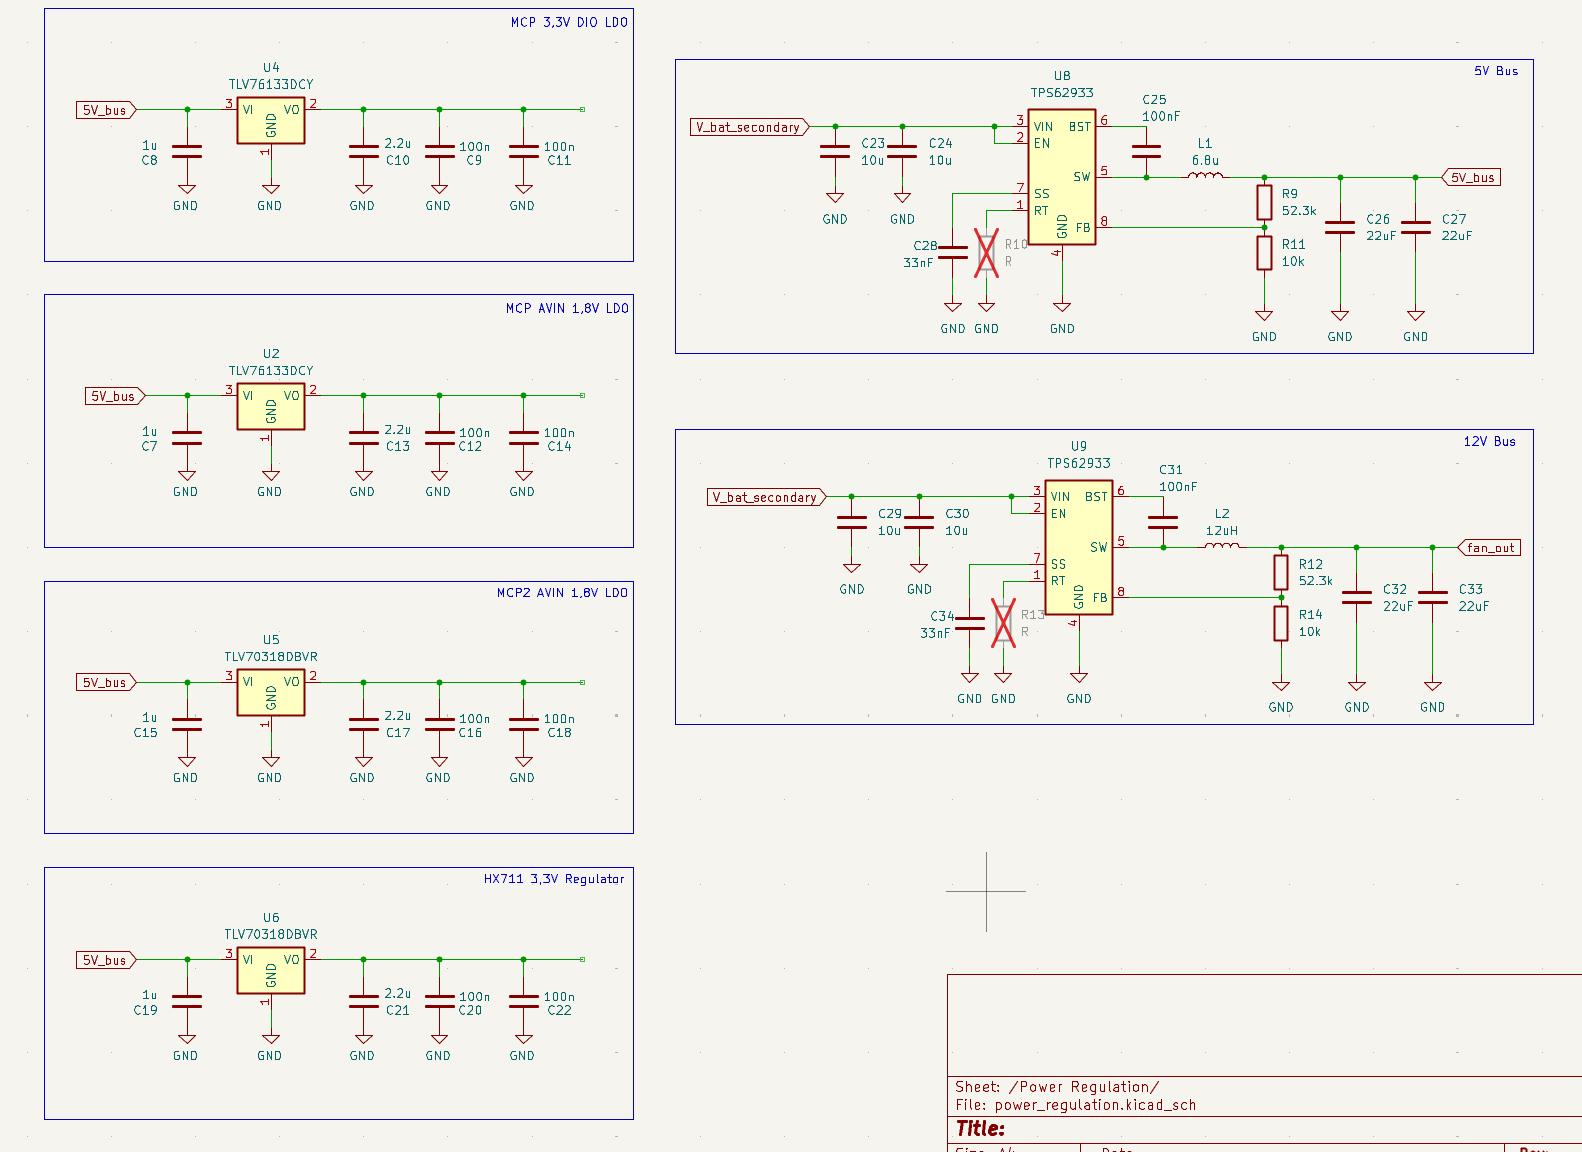
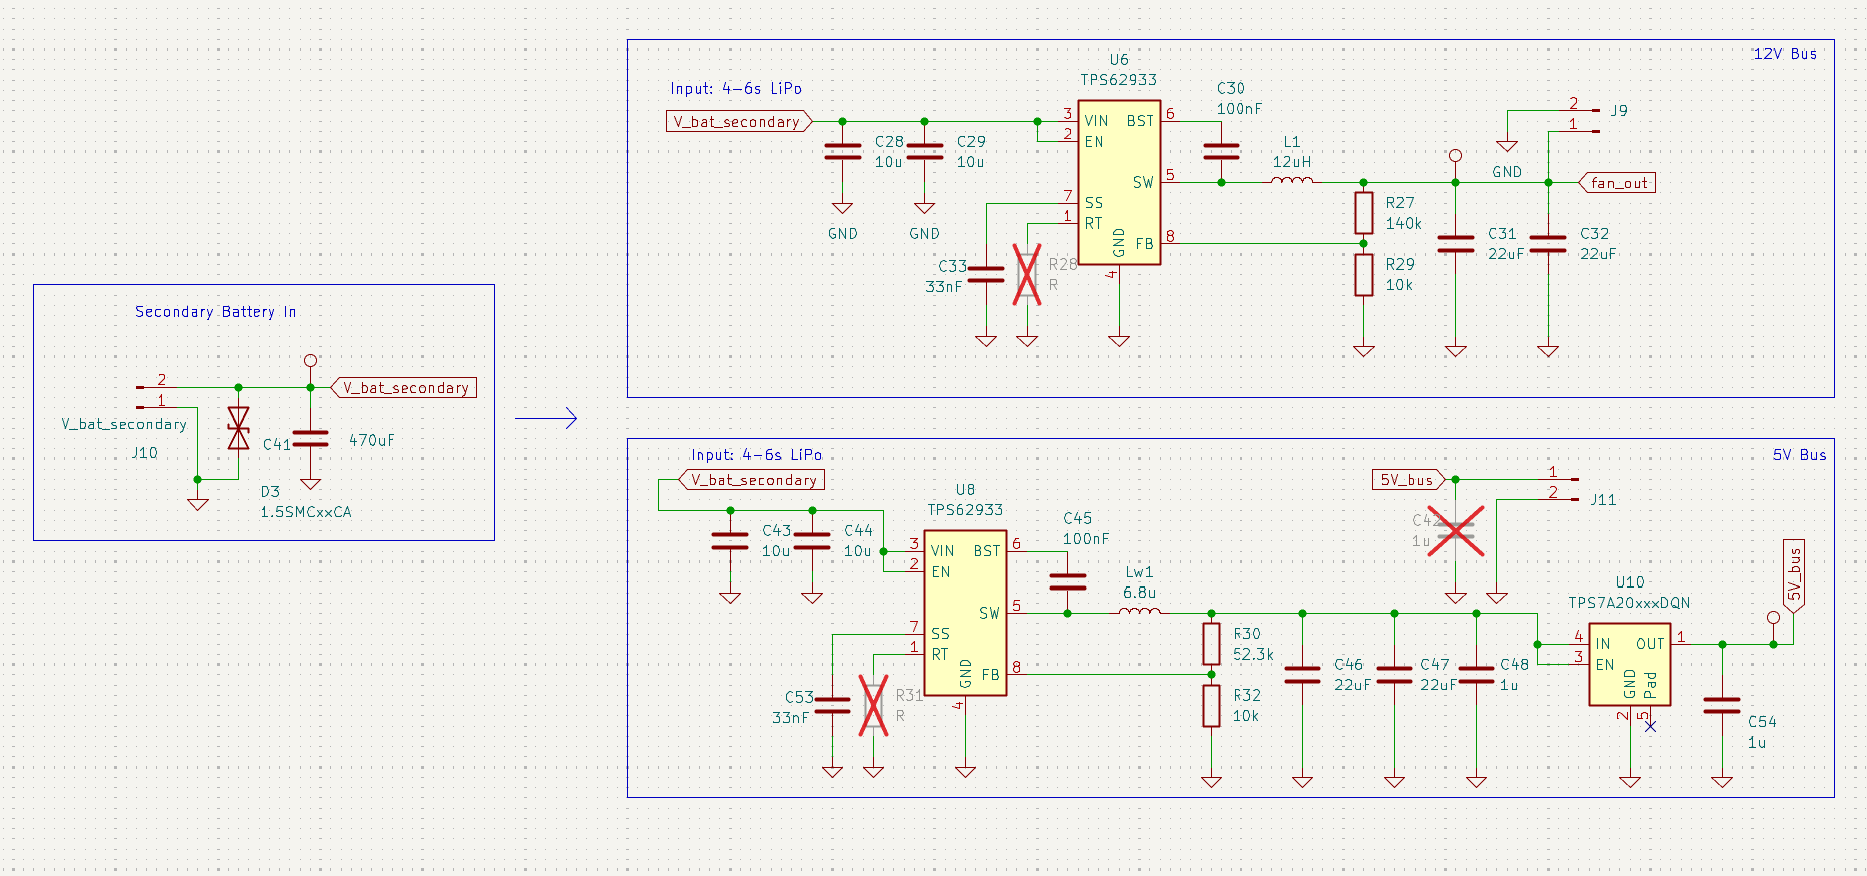
updated the test bench project

diff --git a/docs/projects/testbench.md b/docs/projects/testbench.md
@@ -2,6 +2,8 @@
 
 This is a personal project that is a work in progress. The idea for this project arose from the need to optimize motor-propeller combinations for the industrial drone project.
 
+This project serves as a base for a drone PMU (power management unit) project I am planning on doing in the future. 
+
 ### General description of the device
 
 The aim of the project is to design and implement a test bench suitable for drone motors, capable of measuring the current, voltage and power of the drone motor, the rotational speed of the motor or blades, and the thrust generated by the motor. The idea is that different combinations of motors, propellers, and motor controllers can be tested to achieve the best efficiency.
@@ -11,111 +13,174 @@ The device measures the motor's current and voltage which can be used to calcula
 ### Planned features
 
 - Compatibility for various types of motors and motor controllers.
-- Web UI for graphing measurement results in real time
-- Battery operable from typical drone batteries (input voltage range up to 30 V) 
+- Python based plotting / UI (and possibly a Web UI hosted on the ESP32) for graphing measurement results in real time
+- Battery operable from typical drone batteries (input voltage range up to 30 V, 4-6s) 
 - Automated test sequences
   
 ### Target specifications
 
 Current measurements:
 
-- Max Current: 60 A
+- Max Current: 60 A (peak), 30 A sustained for several minutes
 - Accuracy:   100 mA
-- Resolution: 10 mA.
+- Resolution: 20 mA or less.
 - Bandwidth: 10 kHz.
 
 Voltage measurements:
 
 - Max input Voltage: 30 V
 - Accuracy: 100 mV
-- Resolution: 10 mV.
+- Resolution: 20 mV.
 - Bandwidth: 10 kHz.
 
 Thrust measurements:
 
 - Range: 0-5 kg
-- Accuracy: 20g
-- Resolution: 10g
+- Accuracy: 100g
+- Resolution: 20g
 
 Propeller measurements:
 
 - Rotational speed: 20 000 rpm
 - Accuracy: 100 rpm
 
-### Current Progress / Initial Designs **(Very much Subject to Change)**
+These requirements were arbitarily selected as a basis for the project but the fullfilment of these goals is not the most important aspect of this project.
 
-The initial plan for the system has been created and is shown in the block diagram below. The exact components may still change. In particular, the ADCs may still be changed. The goal is to implement the different parts of the system step by step and eventually integrate everything onto a single circuit board.
+## Current Progress
 
-The project is intended to be as modular as possible so that it can be developed in parts. For example, a cost effective and readily available generic load cell + HX711 ADC combination was been chosen for thrust measurement. This will be replaced later with a higher-quality solution later on. 
+Most of the system has been implemented and the PCB layout is almost finished. Only minor tweaks to the PCB layout and component selectio has to be done before ordering of the PCB. The general level system block diagram can be found below.
+
+<div align="center">
+  <img src="../../images/testbench/system_blockdiagram_v2.png" width="700" />
+  <p><em> System block diagram.</em></p>
+</div>
+
+### General description and Main Components of the System 
+
+- Microprocessor: The ESP32 was chosen as the microprocessor because it has Wifi capability and can stream the measurement results via a web server UI. 
+- Current sensor: Allegro Microsystems ACS37030-065B3. Isolated, Ratiometric, Bi-directional.
+- Voltage measurement: Resistor ladder + ACPL-C87A Isolated op-amp.
+- Power Regulation: TPS62933 Buck-converter + several LDOs and a 1,8 V voltage reference circuit for ADCs
+
+The system was designed as two separate sections: High current side and measurement side. These two have separated, isolated ground reference planes to mitigate noise travelling from the drone motors to the measurements. An isolating DCDC converter was used between the main system 5V bus and the isolated side. Several different LDOs were selected as filter stages between the system switching regulators and the sensitive measurement parts. Two separate power planes were implemented for analog and digital circuitry.
+
+The system utilizes two separate 16-bit high sample rate (up to 1 Mhz) ADCs to measure the motor current and voltage. These measurements are fed differentially to active LPF op amps stages before the sampling ADCs. An ESP32-S3 was selected as the system microprocessor. The high speed 80 MHz SPI bus was used between the high speed ADCs and the ESP. For the thrust measurement a generic load-cell and HX711 module headers were implemented on to the board. For the RPM measurement, the ESP32 internal pulse counter and an optical sensor will be used.
 
 
 <div align="center">
-  <img src="../../images/testbench/simplified_system_block_diagram_V2.png" width="700" />
-  <p><em> System block diagram (WIP).</em></p>
+  <img src="../../images/testbench/board_3D.png" width="700" />
+  <p><em> Current version of the board layout. </em></p>
 </div>
-
-
-### Component Selection
-
-The ESP32 was chosen as the microprocessor because it has Wifi capability and can stream the measurement results via a web server UI. 
 
 #### Current Measurement
 
-The Allegro Microsystems ACS37032-065B3 Hall-effect current sensor was selected for the project because it met all the requirements and was reasonably priced. In addition, the package is easy to solder by hand and the sensor appeared to be simple to use.
+The Allegro ACS37030-065B3 was selected as the primary current sensor specifically for its VREF pin, a critical feature for leveraging the full potential of the 16-bit ADC chain. As the sensor is natively bidirectional, it produces a 1.65V offset at zero current, which would effectively waste half of the measurement range in a unidirectional drone application. By utilizing the ACS37030’s VREF signal, we can implement a differential op-amp configuration that subtracts this offset and allows for signal scaling, ensuring the motor current utilizes the ADC's entire dynamic range rather than just the upper half.
 
-[Datasheet:](https://www.mouser.com/catalog/specsheets/Allegro_MicroSystems_01032024_ACS37030-32-Datasheet.pdf)
+This differential configuration also provides automatic ratiometric error mitigation and superior noise immunity. Since both the measurement signal and VREF scale identically with the 3.3V supply voltage, the op-amp stage cancels out any voltage sags or ripple as common-mode noise, which would otherwise distort the readings. The result is a stable, high-resolution signal that remains reliable even when high-power transients cause fluctuations in the supply lines, ensuring the data integrity required for precise efficiency and power calculations.
+
+[ACS Datasheet](https://www.mouser.com/catalog/specsheets/Allegro_MicroSystems_01032024_ACS37030-32-Datasheet.pdf)
 
 The sensor is capable of measuring current up to 65 amps with a bandwidth of 5 MHz, which is sufficient for one drone motor and meets the project requirements. The sensor produces a voltage proportional to the current passing through with a sensitivity of 20.3 mV/A. At full 65 A current, the sensor produces an output voltage of approximately 1.32 V. Although the internal resistance of the measurement circuit is low (0.6 mΩ), the power loss generated at peak currents is significant (2.5 W) and requires sufficient cooling.
 
 The ACS772LCB-100B-SMT-T might have been a better choice for the current sensor. Its internal resistance is only 100 micro-ohms, so it would have been better able to withstand continuous loading. In addition, its current measurement range is up to 100 A, so it could also have been used with larger motors.
 
-[Datasheet:](https://www.allegromicro.com/~/media/files/datasheets/acs772-datasheet.pdf)
+[Datasheet](https://www.allegromicro.com/~/media/files/datasheets/acs772-datasheet.pdf)
 
 #### ADCs and buffering
 
-The 16-bit Microchip MCP33131 ADCs were chosen for their high sampling rate (up to 1 Msps). Since the MCP33131 uses a Successive Approximation Register (SAR) architecture, it draws a dynamic current during the acquisition phase. To prevent voltage droop and ensure measurement accuracy, an op-amp voltage buffer was implemented in the signal path.
+The system utilizes two 16-bit Microchip MCP33131 SAR ADCs to achieve the measurements of both current and voltage. Due to the Successive Approximation Register (SAR) architecture, MCP6022 dual op-amp was put as a buffer between the source and the ADC. The MCP6022 is configured as a differential amplifier for both measurement channels. This approach maximizes the ADC's dynamic range and provides superior common-mode noise rejection.
 
-The MCP6022 dual op-amp was selected as the buffer due to its high Gain Bandwidth Product (10 MHz) and cost-effectiveness. Its Rail-to-Rail Input/Output (RRIO) capability is essential for this single-supply, low-voltage system. The signal path design is iterative; future versions will include tuned anti-aliasing filters to further improve signal integrity.
+Current Measurement Path: The differential stage (U3A) takes the cur_sig and ACS_VREF signals from the ACS37030 sensor. It is configured with a 2.2 gain (R7/R8 = 2.2 kOhm / 1 kOhm) to scale the unidirectional current signal to match the ADC's input range. 
+
+Voltage Measurement Path: The stage (U3B) processes the V_sig and Vout_ref signals from the ACPL-C87A isolation amplifier. It utilizes 1.5 gain (R7/R18 = 1.5) to normalize the isolated voltage signal for the ADC. 
+
+##### Integrated Filtering and Anti-Aliasing
+
+To ensure high signal quality in the noisy environment of a drone motor testbench, a two-stage filtering strategy was implemented for each channel:
+
+Active Low-Pass Filter: A 1 nF capacitor (C7/C15) in the op-amp feedback loop provides initial high-frequency damping directly at the amplification stage. 
+
+Passive Anti-Aliasing Filter: A final RC low-pass filter consisting of a 22 ohm resistor and a 100 nF capacitor (C9/C18) is placed immediately before the ADC input. This stage provides a calculated cut-off frequency of approximately 72,3 kHz. This filtering chain effectively suppresses switching noise from the ESC and DC-DC converters, preventing aliasing and ensuring that the 16-bit ADC captures a clean, representative signal of the motor's performance.
 
 <div align="center">
-  <img src="../../images/testbench/measurements_1.png" width="700" />
-  <p><em> Sensors and ADCs (WIP). </em></p>
+  <img src="../../images/testbench/differential_opamps.png" width="700" />
+  <p><em> Differential operational amplifiers. </em></p>
 </div>
 
-#### Power regulation
+#### Power Architecture and Signal Integrity
 
-The power architecture is divided into two stages to ensure signal integrity and efficiency.
+The power architecture is implemented in multiple stages to prioritize signal integrity, high-frequency noise rejection, and overall system efficiency.
 
-Analog and Digital Logic: The MCP33131 ADC requires a clean 1.8 V analog supply, while its digital interface supports voltages from 2.5 V to 5 V. A 3.3 V rail was selected for the digital interface to match the ESP32’s SPI logic levels directly. To minimize noise coupling and ensure measurement accuracy, all sensitive analog components (ADC, Op-Amps, and sensors) are powered via dedicated Low Dropout Regulators (LDOs).
+##### Primary Buck Regulation Stage
 
-Primary Power Stage: The main system power—supplying the ESP32, LDO inputs, and the cooling fan—is handled by a DC-DC buck converter stage. This stage is implemented using the TPS62933 synchronous buck converter. The IC supports a wide input voltage range of 3.8 V to 30 V, which provides significant flexibility: the test bench electronics can be powered directly by almost any standard drone battery pack (ranging from 1S to 6S) independent of the motor power supply.
+The system is powered by a dedicated electronics battery (separate from the motor supply) with an input range of 12 V to 30 V. Two TPS62933 synchronous buck converters serve as the primary regulation stage:
 
+- 12 V Rail: Dedicated to the cooling system (case fan). A minimum input of 12 V is required to maintain this rail.
+- 5 V Rail: Acts as the primary bus for all logic and analog sub-systems. 
+
+The converter is configured for a 500 kHz switching frequency to balance efficiency and component size. 
 
 <div align="center">
   <img src="../../images/testbench/power_stage_1.png" width="700" />
-  <p><em> Power regulators (WIP).</em></p>
+  <p><em> First power stage of the electronic's side. </em></p>
 </div>
 
+##### Post-Regulation and Noise Filtering
 
-### PCB design
-The PCB design is currently in the preliminary layout phase. The physical dimensions of the board are largely dictated by the ESP32 Development Kit footprint, which was chosen to accelerate the prototyping process.
+To ensure measurement accuracy, the 5 V rail undergoes post-regulation before reaching sensitive circuitry. A TPS7A20 LDO is placed immediately after the 5 V buck converter. This specific LDO was selected for its ultra-high PSRR (Power Supply Rejection Ratio) at high frequencies and exceptionally low output noise (12 uV RMS). While generic LDOs often lose their filtering capability above 10 kHz, the TPS7A20 maintains significant rejection at the 500 kHz switching frequency of the buck converter, effectively "cleaning" the rail before it enters the rest of the system.
 
-Handling currents up to 65 A requires special attention in the layout. The design features wide, exposed copper planes (soldermask removed) on both top and bottom layers. This allows for manual solder tinning to increase the effective conductor thickness, thereby reducing resistance and improving thermal management.
+##### Dedicated Supply Rails
 
-Things that will be considered in the build:
+To prevent digital switching noise from coupling into analog measurements, the system utilizes separate LDOs for different domains:
 
-- Stackup: Planned 4-layer configuration (SIG/PWR – GND – GND – SIG) to ensure solid return paths and noise suppression.
-- Signal Integrity: Series termination on high-speed SPI buses; impedance-controlled routing for critical signals.
-- Mixed-Signal Layout: Strict physical separation between digital logic and sensitive analog domains; minimized trace lengths for analog signals.
-- High Current Path: Reinforced copper pours exposed for solder tinning to handle up to 65 A in the measurement section.
-- Thermal Management: Component placement optimized for airflow and heat dissipation, particularly for the current measurement and regulators.
-- Modularity: Design allows for future upgrades or swapping of specific sub-circuits.
-- ESD / polarity protection of inputs
-- Testpoints and proper silkscreens
+- 3.3 V Digital Supply: A cost-effective TLV7733P LDO provides power for the digital logic and matching the ESP32’s SPI logic levels.
+- 3.3 V Analog Supply: A second high-performance TPS7A20 LDO powers the analog sections of the ADCs and the MCP6022 OpAmp buffers to ensure a stable, low-noise signal path.
 
+Isolated Supply: An RFM-0505S isolated DC-DC converter, followed by an LDO and LC-filtering, provides the floating power for the "hot side" of the ACPL isolation amplifier, ensuring complete galvanic separation. 
+
+##### High-Precision ADC Referencing
+
+The MCP33131 ADC is highly sensitive to reference stability. To minimize measurement drift caused by the high thermal loads expected during 65 A motor tests, the 1.8 V analog supply is not handled by a standard LDO. Instead, a dedicated MCP1501-18 precision voltage reference circuit is used. This provides a temperature-stable 1.8 V source with excellent initial accuracy, ensuring that the ADC readings remain consistent even as the PCB temperature rises during prolonged high-power sequences.
 
 <div align="center">
-  <img src="../../images/testbench/initial_pcb_3d.png" width="700" />
-  <p><em> Draft of the PCB design. </em></p>
+  <img src="../../images/testbench/power_stage_2.png" width="500" />
+  <p><em> Second power stage of the electronic's side. </em></p>
+</div>
+
+### PCB Layout
+
+The PCB was designed with 4-layers. The stackup is: PWR/sig, GND, GND, PWR/sig. I believe this was the most optimal setup for my system as I can have a clean ground reference layer for the sensitibe measurements and high speed signals. I managed to keep the two inner GND layers completely intact.
+
+Things I have considered during layout:
+
+- Prioritizing signal integrity for the measurements.
+- Separating hot components / areas from sensitive circuitry. 
+- Separated switching devices from sensitive analog circuitry.
+- Separated and partly split ground planes block high amplitude and high frequency / noisy motor current from the measurement side.
+- Current return paths. Tried to minimize crossing return paths for digital and analog circuitry.
+- High current specialities: 
+  - Plane / trance current dimensioning: Calculated and estimated the required trace thickness and width for the application.
+  - Thermal design. Located hot high current planes on its own side of the PCB with separated ground planes to mitigate conductive heat transfer to the measurement electrronics. Impelemented high current path with exposed copper layers and two 1 oz planes tied together for + and - routes to allow adding a layer of solder to the high current path. This is mainly to improve thermal capabilities as tin has roughly 5-10x worse electrical conducitivity than the copper on the power plane.
+  - Tried to minimize the loop inductance for the high current. This was a bit difficult due to bulky connectors and requirement of using multiple layers and many vias for the current route.
+- Mechanical design: This PCB will be used in a functional device which required that the usability and mechanical design was also taken into account during PCB design.
+
+<div align="center">
+  <img src="../../images/testbench/top_layer.png" width="500" />
+  <p><em> Top layer. </em></p>
+</div>
+
+<div align="center">
+  <img src="../../images/testbench/mid_layer.png" width="500" />
+  <p><em> Mid layer 1. </em></p>
+</div>
+
+<div align="center">
+  <img src="../../images/testbench/mid_layer_2.png" width="500" />
+  <p><em> Mid layer 2. </em></p>
+</div>
+
+<div align="center">
+  <img src="../../images/testbench/bottom_layer.png" width="500" />
+  <p><em> Bottom layer. </em></p>
 </div>
 
